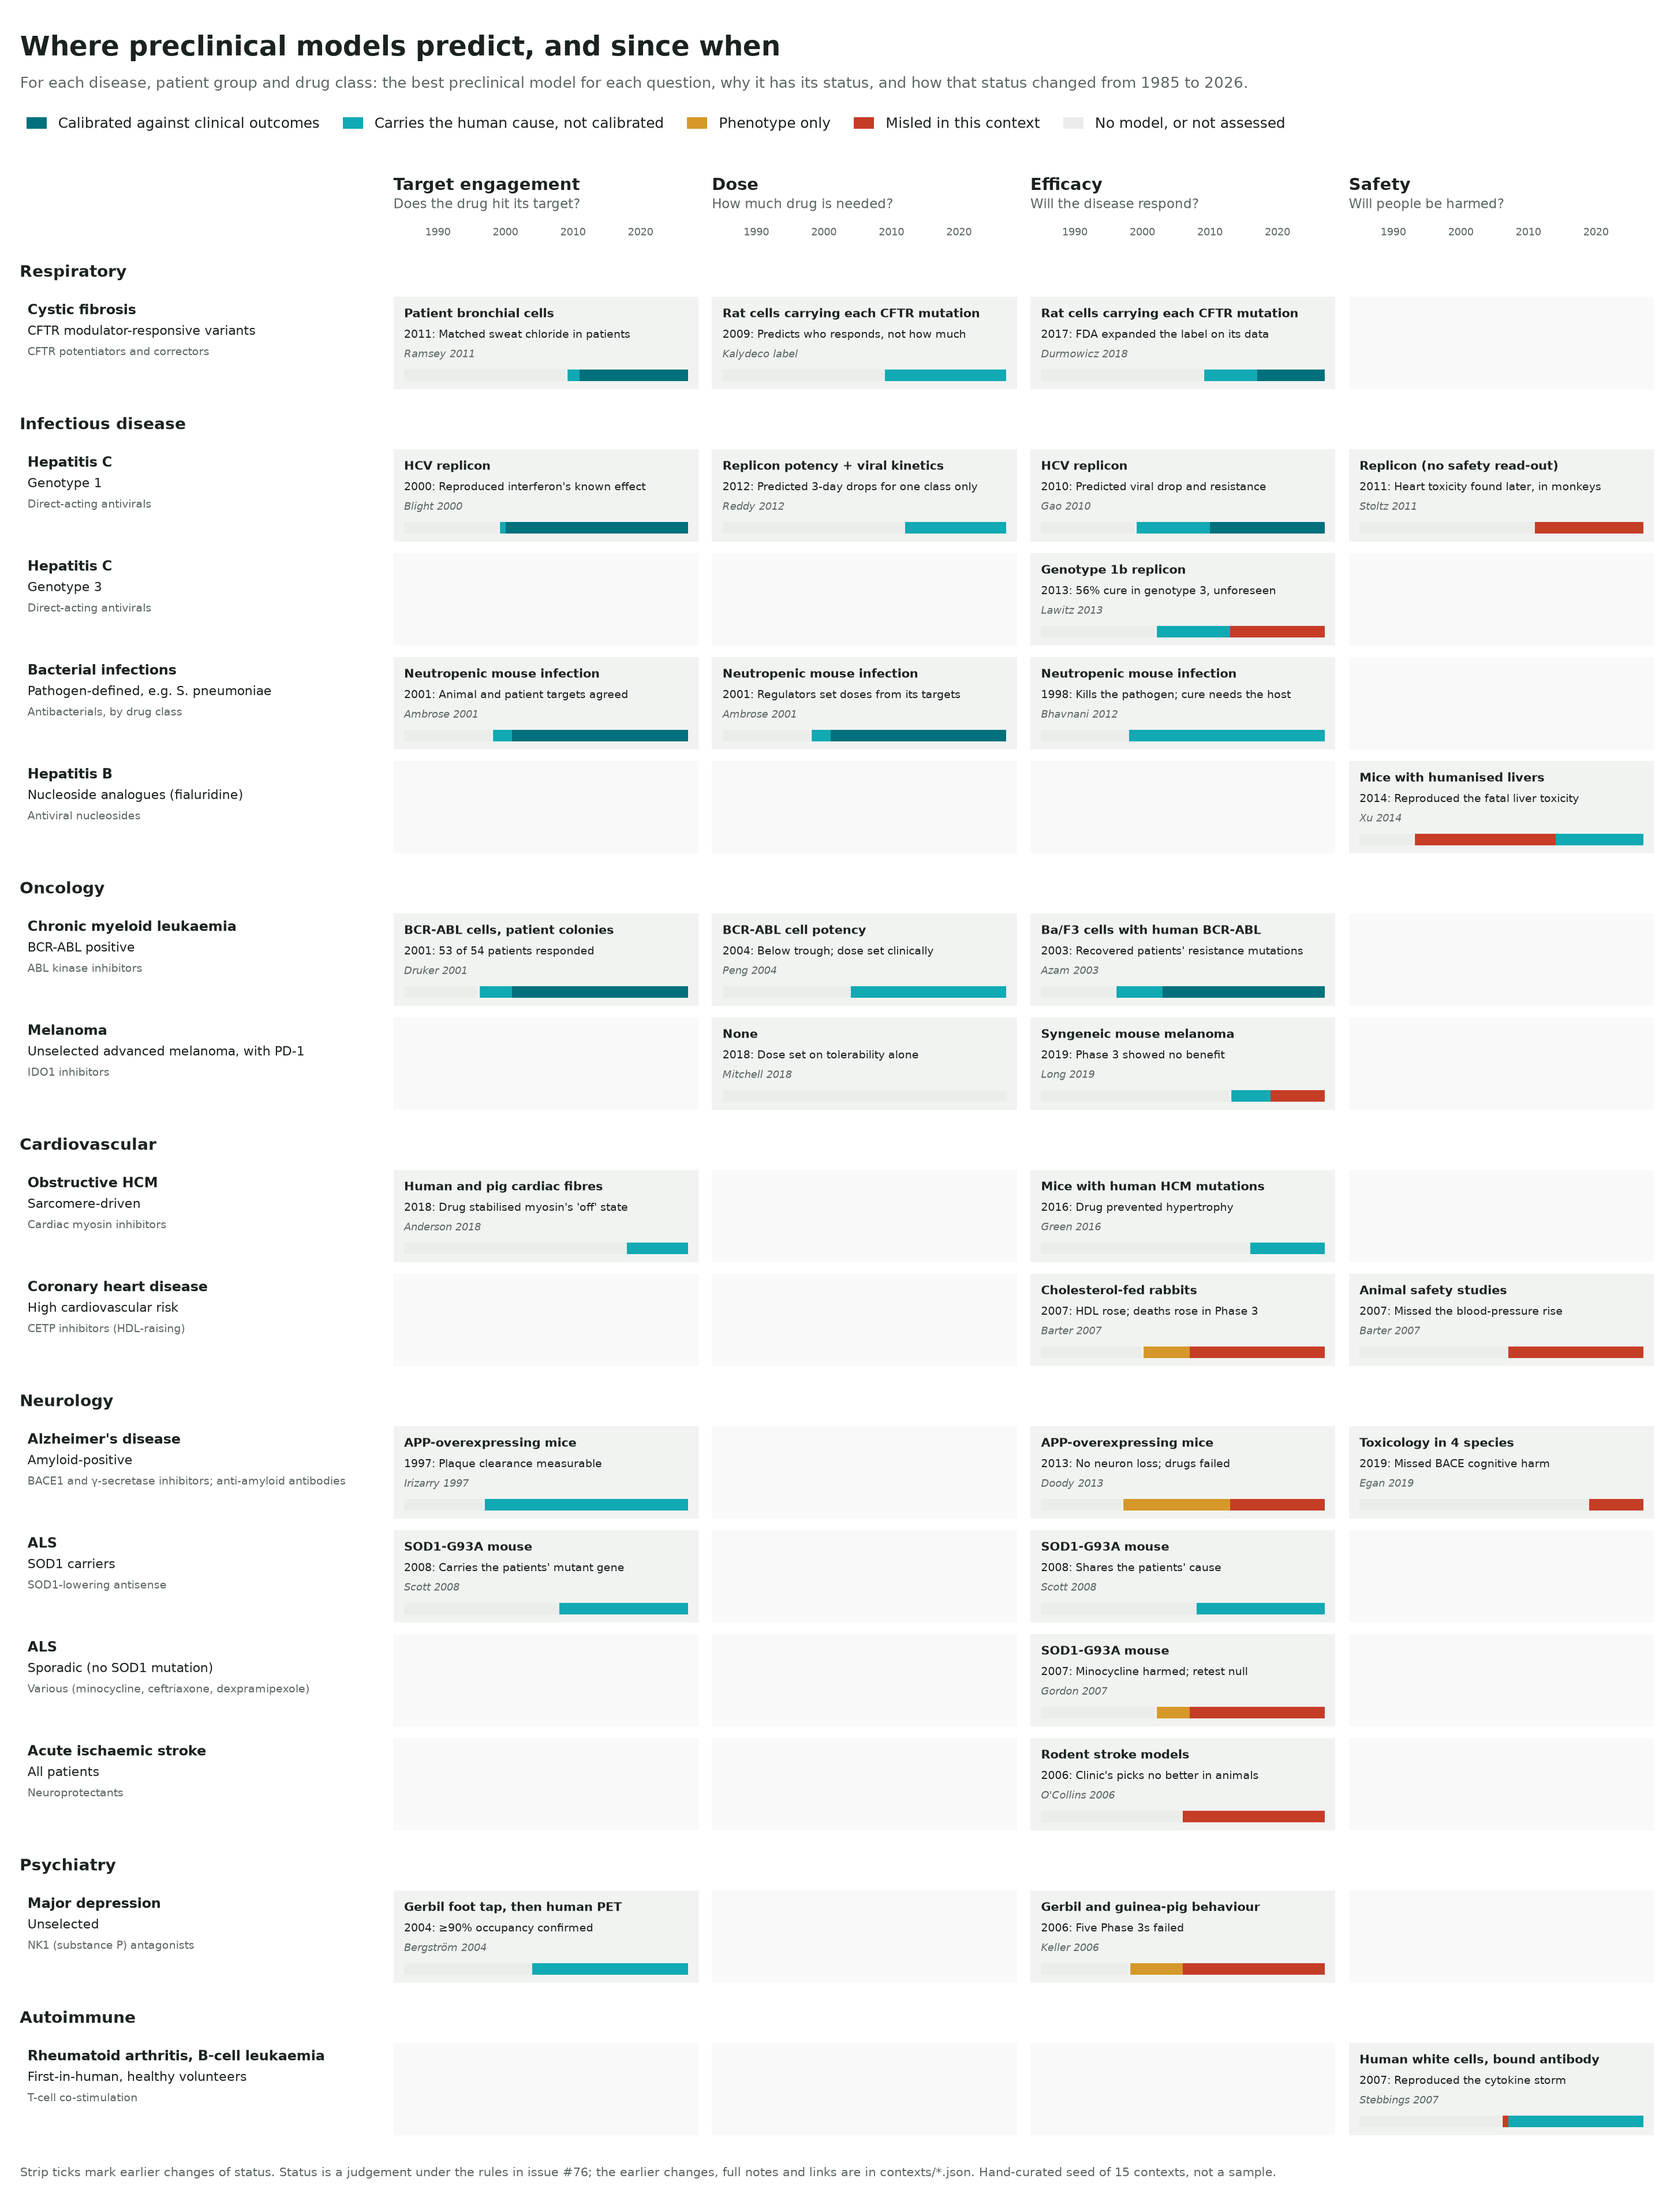
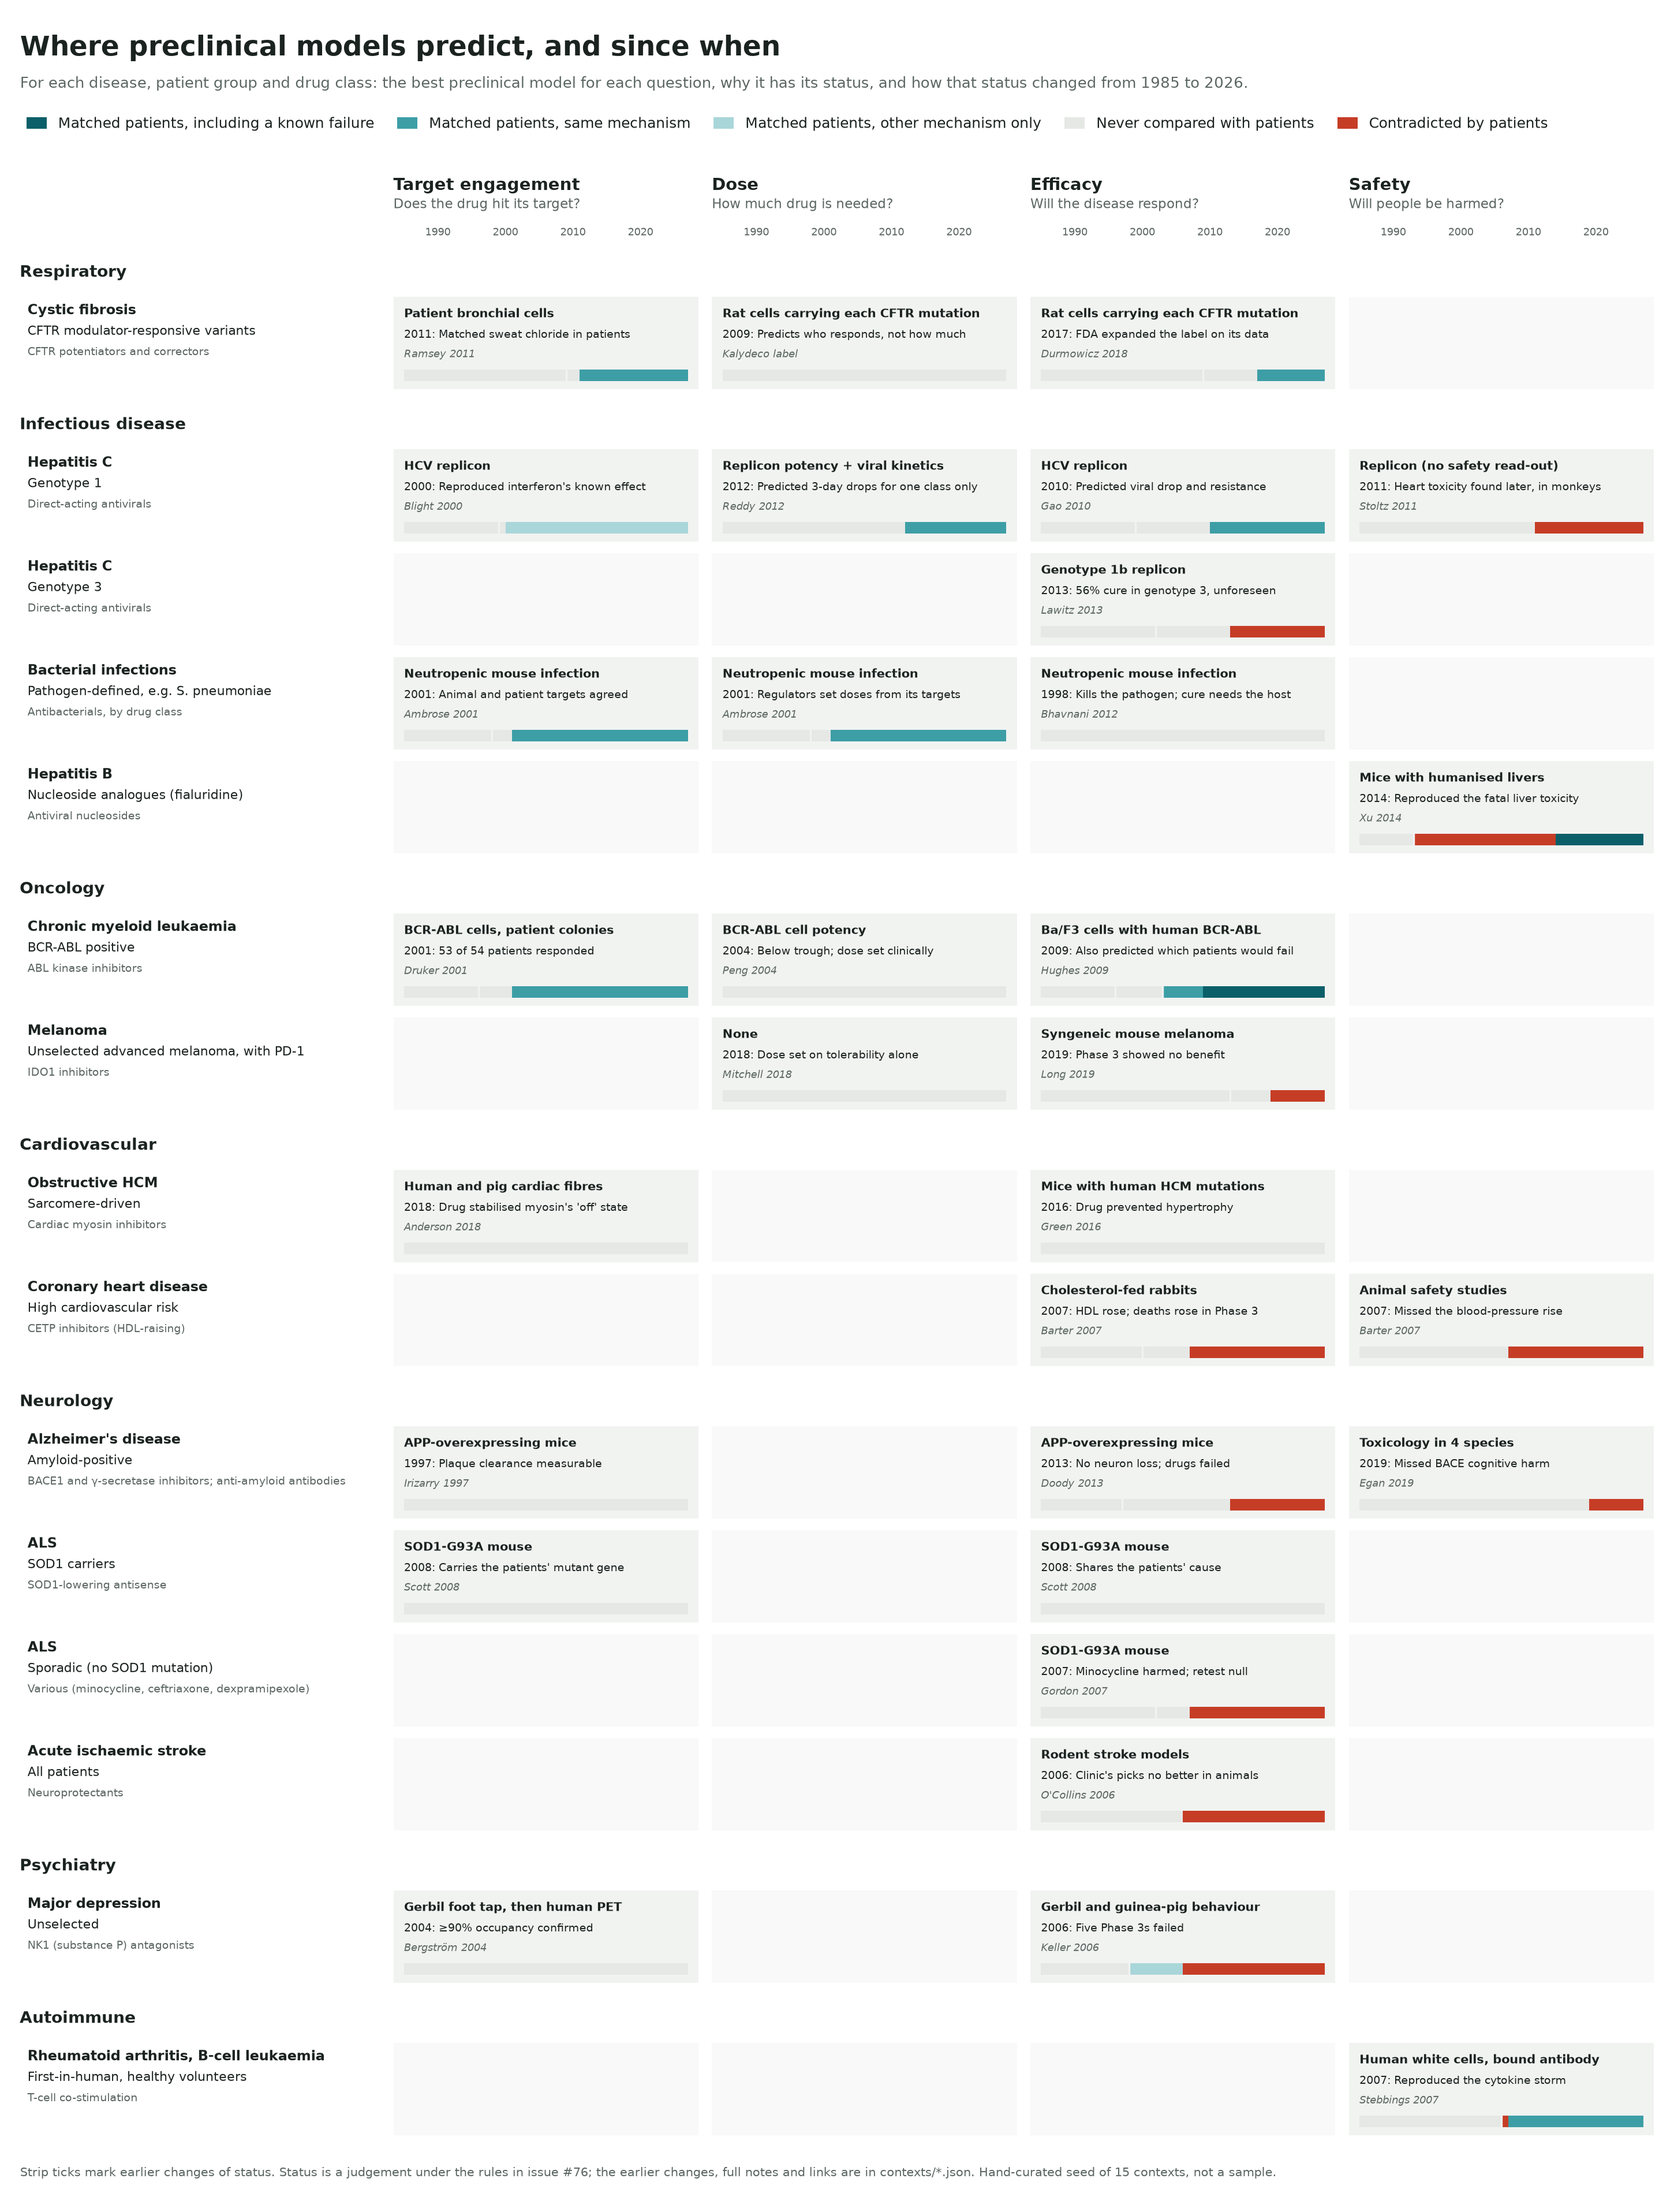
Atlas: track-record statuses only; area-level figure with illustrative shares

diff --git a/analyses/model-system-atlas/figure_areas.py b/analyses/model-system-atlas/figure_areas.py
@@ -1,0 +1,124 @@
+"""Draw the area-level model-system figure: for each disease area and question, the share of programs
+entering Phase 2 in each period whose context had a model with each track record at entry.
+
+    .venv/bin/python analyses/model-system-atlas/figure_areas.py
+
+Until the context sample and program join in issue #76 exist, the shares are ILLUSTRATIVE: drawn at
+random around a plausible profile per area, to show the design only. Approval rates are the report's
+current LOA for all programs by area.
+"""
+
+import os
+
+import matplotlib.pyplot as plt
+import numpy as np
+from matplotlib.patches import Patch, Rectangle
+
+HERE = os.path.dirname(os.path.abspath(__file__))
+QUESTIONS = [("Target engagement", "Does the drug hit its target?"), ("Dose", "How much drug is needed?"),
+             ("Efficacy", "Will the disease respond?"), ("Safety", "Will people be harmed?")]
+PERIODS = ["2008–11", "2012–15", "2016–19"]
+TRACK = [  # left to right in each bar
+    ("neg", "#0b5f69", "Matched patients, including a known failure"),
+    ("same", "#3d9ea6", "Matched patients, same mechanism"),
+    ("other", "#a9d6d9", "Matched patients, other mechanism only"),
+    ("untested", "#e6e8e6", "Never compared with patients"),
+    ("contra", "#c63d26", "Contradicted by patients"),
+]
+# Report LOA, all programs, by area (current render).
+AREAS = [("Hematology", 18.4), ("Metabolic", 10.2), ("Oncology", 9.8), ("Infectious disease", 8.6), ("Autoimmune", 7.5),
+         ("Allergy", 6.8), ("Neurology", 6.5), ("Endocrine", 6.3), ("Psychiatry", 6.1), ("Respiratory", 4.6),
+         ("Ophthalmology", 4.3), ("Other", 3.8), ("Urology", 3.8), ("Gastroenterology", 3.0), ("Cardiovascular", 2.7)]
+INK, MUTED, RULE = "#1b2321", "#5c6763", "#c4cbc7"
+
+
+def illustrative_shares(rng):
+    """shares[area][question][period] -> five shares summing to 1. Illustrative only."""
+    out = {}
+    for a, (name, loa) in enumerate(AREAS):
+        strength = 0.15 + 0.6 * (loa - 2.7) / (18.4 - 2.7)
+        out[name] = []
+        for q in range(4):
+            qscale = [1.0, 0.75, 0.6, 0.35][q]
+            per = []
+            for p in range(3):
+                matched = np.clip(strength * qscale * (0.8 + 0.12 * p) + rng.normal(0, 0.04), 0.02, 0.85)
+                contra = np.clip((0.22 - 0.1 * strength) * (0.6 if q == 0 else 1) + rng.normal(0, 0.02), 0.01, 0.4)
+                split = rng.dirichlet([2 + 3 * strength, 3, 3 - 2 * strength])
+                m = matched * split
+                per.append(np.array([m[0], m[1], m[2], max(0.0, 1 - matched - contra), contra]))
+            out[name].append(per)
+    return out
+
+
+def main():
+    shares = illustrative_shares(np.random.default_rng(76))
+    row_h, head_h, foot_h = 0.62, 2.15, 0.55
+    W = 14.5
+    fig_h = head_h + row_h * len(AREAS) + foot_h
+    fig = plt.figure(figsize=(W, fig_h), dpi=200)
+    fy = lambda inches_from_top: 1 - inches_from_top / fig_h
+    label_w, loa_w, gap = 0.145, 0.075, 0.012
+    col_w = (1 - label_w - loa_w - 0.012 - gap * 4) / 4
+
+    fig.text(0.012, fy(0.3), "How much drug development rests on a model with a track record", fontsize=17, fontweight="bold", color=INK, va="top")
+    fig.text(0.012, fy(0.66), "Programs entering Phase 2, by the track record their context's best model had at entry. "
+             "ILLUSTRATIVE NUMBERS: this shows the design, not data.", fontsize=9.5, color=MUTED, va="top")
+    handles = [Patch(facecolor=c, edgecolor="none", label=l) for _, c, l in TRACK]
+    fig.legend(handles=handles, loc="upper left", bbox_to_anchor=(0.008, fy(0.9)), ncol=5, frameon=False,
+               fontsize=8.8, handlelength=1.4, handleheight=0.9, columnspacing=1.4, labelcolor=INK)
+
+    matrix_h = row_h * len(AREAS)
+    base = fy(head_h + matrix_h)
+    for j, (title, q) in enumerate(QUESTIONS):
+        left = label_w + j * (col_w + gap)
+        fig.text(left, fy(head_h - 0.42), title, fontsize=10.5, fontweight="bold", color=INK, va="bottom")
+        fig.text(left, fy(head_h - 0.27), q, fontsize=8.2, color=MUTED, va="bottom")
+        ax = fig.add_axes([left, base, col_w, matrix_h / fig_h])
+        ax.set_xlim(0, 1); ax.set_ylim(len(AREAS), 0); ax.axis("off")
+        for i, (name, _) in enumerate(AREAS):
+            for p in range(3):
+                y = i + 0.1 + p * 0.26
+                x = 0.0
+                for (key, color, _), s in zip(TRACK, shares[name][j][p]):
+                    ax.add_patch(Rectangle((x, y), s, 0.2, facecolor=color, edgecolor="white", lw=0.6))
+                    x += s
+                if j == 0:
+                    pass
+            if i < len(AREAS) - 1:
+                ax.axhline(i + 1, color=RULE, lw=0.5)
+        for xv, lab in ((0, "0%"), (0.5, "50%"), (1, "100%")):
+            ax.text(xv, -0.08, lab, fontsize=6.8, color=MUTED, ha="center" if 0 < xv < 1 else ("left" if xv == 0 else "right"), va="bottom")
+
+    lab = fig.add_axes([0, base, label_w, matrix_h / fig_h])
+    lab.set_xlim(0, 1); lab.set_ylim(len(AREAS), 0); lab.axis("off")
+    for i, (name, _) in enumerate(AREAS):
+        lab.text(0.08, i + 0.3, name, fontsize=9, fontweight="bold", color=INK, va="center")
+        for p, per in enumerate(PERIODS):
+            lab.text(0.96, i + 0.2 + p * 0.26, per, fontsize=6.6, color=MUTED, ha="right", va="center")
+        if i < len(AREAS) - 1:
+            lab.axhline(i + 1, xmin=0.06, color=RULE, lw=0.5)
+
+    left = label_w + 4 * (col_w + gap)
+    fig.text(left, fy(head_h - 0.42), "Approval", fontsize=10.5, fontweight="bold", color=INK, va="bottom")
+    fig.text(left, fy(head_h - 0.27), "LOA, all programs", fontsize=8.2, color=MUTED, va="bottom")
+    lax = fig.add_axes([left, base, loa_w, matrix_h / fig_h])
+    lax.set_xlim(0, 25); lax.set_ylim(len(AREAS), 0); lax.axis("off")
+    for i, (name, loa) in enumerate(AREAS):
+        lax.add_patch(Rectangle((0, i + 0.38), loa, 0.24, facecolor="#5c6763", edgecolor="none"))
+        lax.text(loa + 0.6, i + 0.5, f"{loa:.1f}%", fontsize=7.4, color=INK, va="center")
+        if i < len(AREAS) - 1:
+            lax.axhline(i + 1, color=RULE, lw=0.5)
+
+    fig.text(0.012, fy(fig_h - 0.14),
+             "Each cell: one bar per period of Phase 2 entry; bar length = 100% of that area's programs. A program's context is its disease, the patients its cause defines, "
+             "and its drug class.\nRows sorted by approval rate. Status rules and collection protocol: issue #76. Real shares replace the illustrative ones once the context sample is joined to programs.",
+             fontsize=7.6, color=MUTED, va="bottom", linespacing=1.4)
+    fig.text(0.5, fy(head_h + matrix_h / 2), "ILLUSTRATIVE", fontsize=90, color="#1b2321", alpha=0.05, ha="center", va="center", rotation=20, fontweight="bold")
+    out = os.path.join(HERE, "atlas_areas.png")
+    fig.savefig(out, facecolor="white")
+    print(out)
+
+
+if __name__ == "__main__":
+    main()

diff --git a/analyses/model-system-atlas/figure.py b/analyses/model-system-atlas/figure.py
@@ -24,14 +24,13 @@ DECISIONS = [("engagement", "Target engagement"), ("dose", "Dose"), ("efficacy",
 QUESTIONS = {"engagement": "Does the drug hit its target?", "dose": "How much drug is needed?",
              "efficacy": "Will the disease respond?", "safety": "Will people be harmed?"}
 STATUS = {
-    "cal": ("#00707d", "Calibrated against clinical outcomes"),
-    "cause": ("#11a9b3", "Carries the human cause, not calibrated"),
-    "pheno": ("#d6982a", "Phenotype only"),
-    "misled": ("#c63d26", "Misled in this context"),
-    "none": ("#ebedeb", "No model, or not assessed"),
+    "neg": ("#0b5f69", "Matched patients, including a known failure"),
+    "same": ("#3d9ea6", "Matched patients, same mechanism"),
+    "other": ("#a9d6d9", "Matched patients, other mechanism only"),
+    "untested": ("#e6e8e6", "Never compared with patients"),
+    "contra": ("#c63d26", "Contradicted by patients"),
 }
 TILE, TILE_EMPTY = "#f1f3f1", "#f8f9f8"
-SHORT = {"cal": "calibrated", "cause": "cause", "pheno": "phenotype", "misled": "misled", "none": "none"}
 INK, MUTED, RULE = "#1b2321", "#5c6763", "#c4cbc7"
 
 
@@ -45,7 +44,7 @@ def load():
 
 def spans(history):
     """(start, end, status) runs covering YEAR0..YEAR1+1 for one cell."""
-    out, cur, start = [], "none", YEAR0
+    out, cur, start = [], "untested", YEAR0
     for h in sorted(history, key=lambda h: h["year"]):
         y = max(h["year"], YEAR0)
         if y > start:
